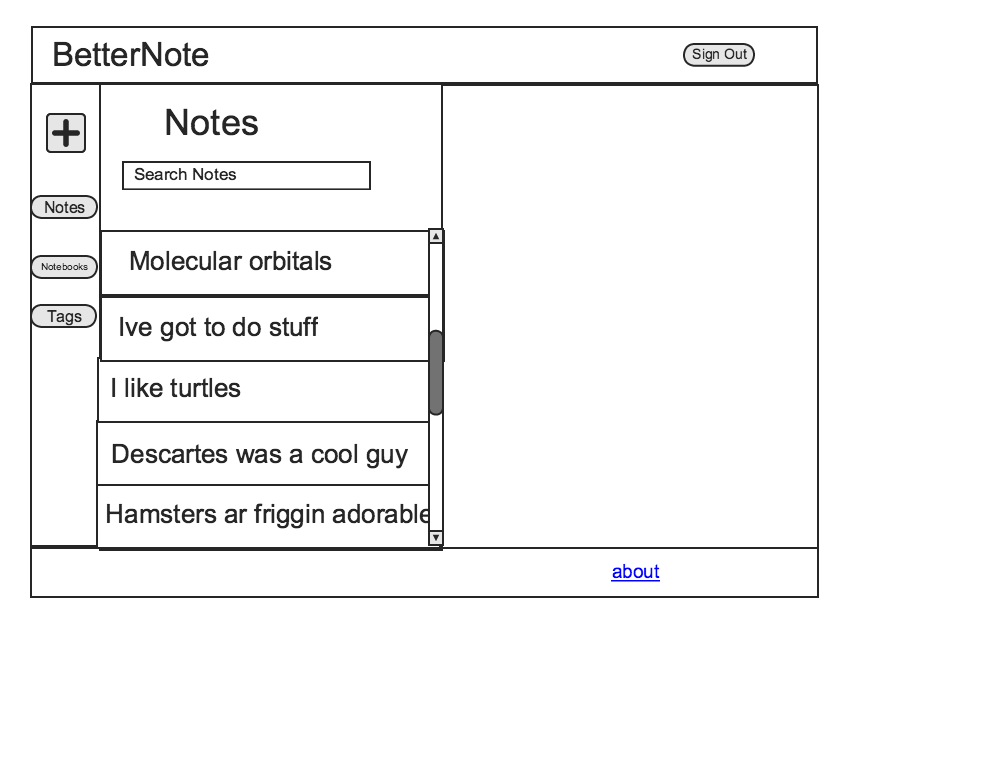
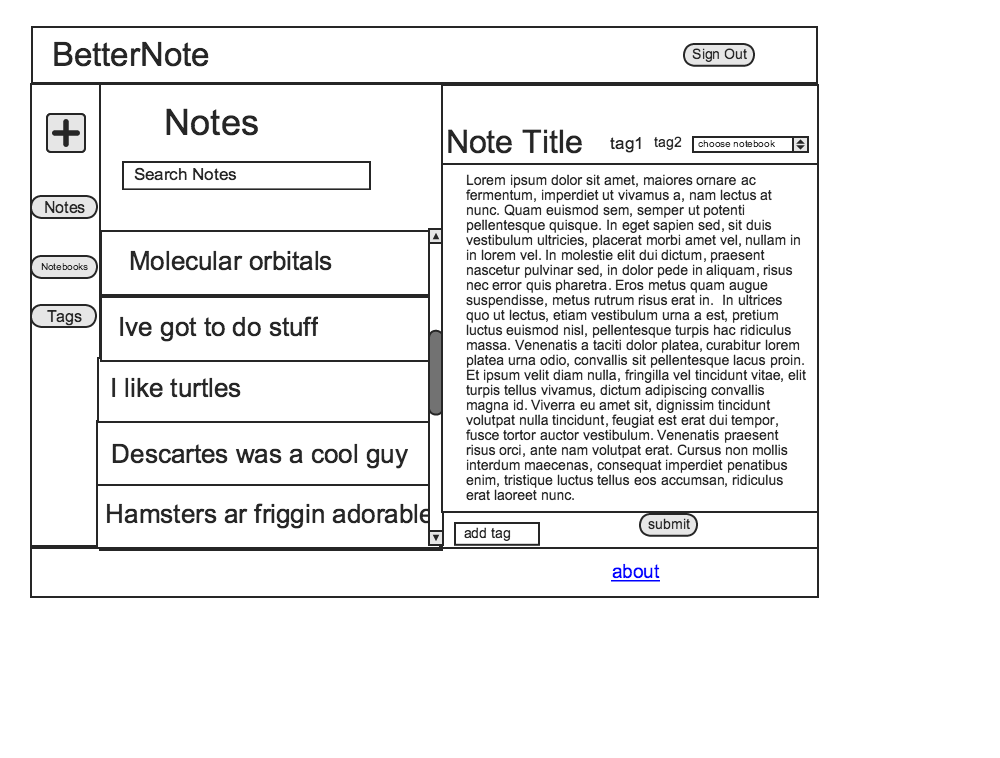
update wireframes

Changed region(s): [[0.434, 0.1517, 0.806, 0.7282], [0.62, 0.6675, 0.713, 0.7282]]

diff --git a/docs/views.md b/docs/views.md
@@ -3,8 +3,8 @@
 ## New Session
 ![new-session]
 
-## Composite View
-![composite-view]
+## Rootview and Sidebar
+![Rootview-and-Sidebar]
 
 ## Anotated Composite View
 ![annotated-composite-view]
@@ -38,7 +38,7 @@
 
 [tag-page]: ./wireframes/tag-page.png
 [new-session]: ./wireframes/new-session.png
-[composite-view]: ./wireframes/composite-view.png
+[Rootview-and-Sidebar]: ./wireframes/rootview-and-sidebar.png
 [annotated-composite-view]: ./wireframes/annotated-composite-view.png
 [sidebar-notebook-list]: ./wireframes/sidebar-notebook-list.png
 [sidebar-tag-list]: ./wireframes/sidebar-tag-list.png
